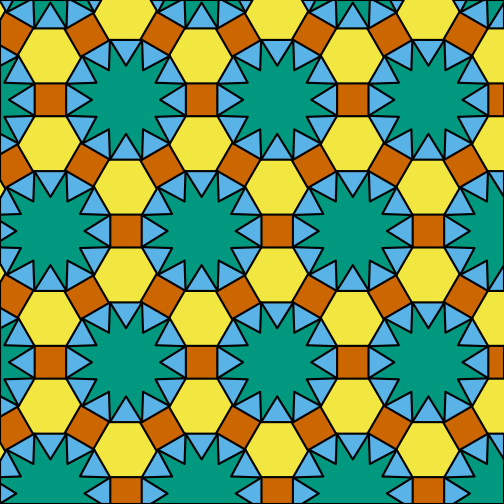
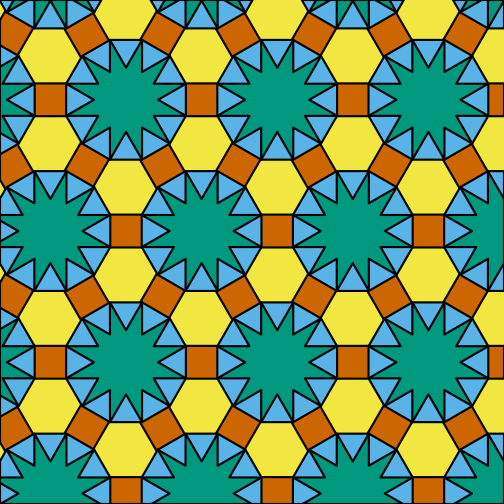
docs:  Add 4 non-uniform tilings to vignette
* Herringbone tiling
* Pythagorean tiling
* Rhombille tiling
* Tetrakis tiling

closes #36

diff --git a/README.md b/README.md
@@ -123,9 +123,10 @@ gp <- gpar(fill = blue, col = "black")
 grid.pattern_regular_polygon(shape = "convex12", grid = "hex_circle", rot = 15,
                              density = 0.82, spacing = 0.3, angle = 0, gp = gp)
 gp <- gpar(fill = green, col = "black")
+scale <- star_scale(12, 30)
 grid.pattern_regular_polygon(shape = "star12", grid = "hex_circle", rot = 15,
                              density = 0.82, spacing = 0.3, angle = 0, gp = gp,
-                             scale = 0.55)
+                             scale = scale)
 ```
 
 ![](man/figures/README-rhombitrihexagonal-1.png)
